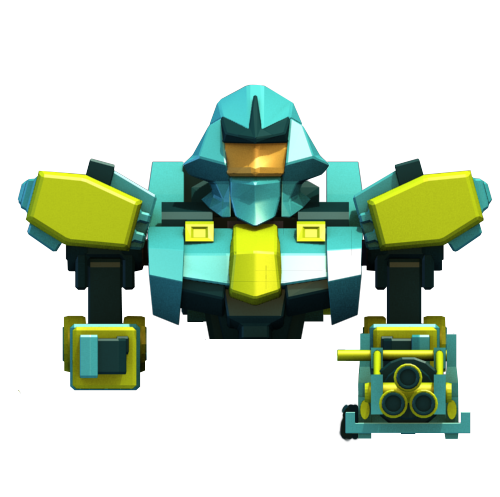
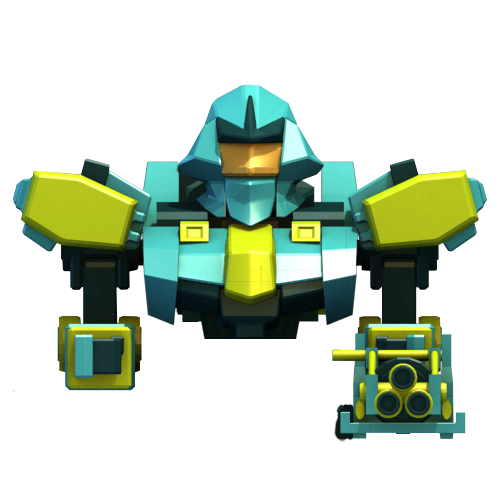
CSS-fixes and robot at the center

diff --git a/b/robots/robots.css b/b/robots/robots.css
@@ -158,7 +158,7 @@
 
 .pofo-robots--arrow {
 	display: inline-block;
-	margin 0 2px 2px 0;
+	margin: 0 2px 2px 0;
 	width: 30px;
 	height: 30px;
 	
@@ -260,7 +260,7 @@
 	position:relative;
 }
 	.pofo-robot-area .pofo-robot-areawrap{
-		width:90%
+		width:90%;
 		height:100%;
 		overflow:hidden;
 		position:relative;
@@ -425,7 +425,7 @@
 .pofo-robots--storeButtons {
 	height:70px;
 	width:400px;
-	margin:0pa auto;
+	margin:0px auto;
 
 	display: -webkit-box;
 	display: flex;
@@ -706,7 +706,7 @@
 .pofo-robots--storeButtons {
 	height:70px;
 	width:400px;
-	margin:0pa auto;
+	margin:0px auto;
 
 	display: -webkit-box;
 	display: flex;
